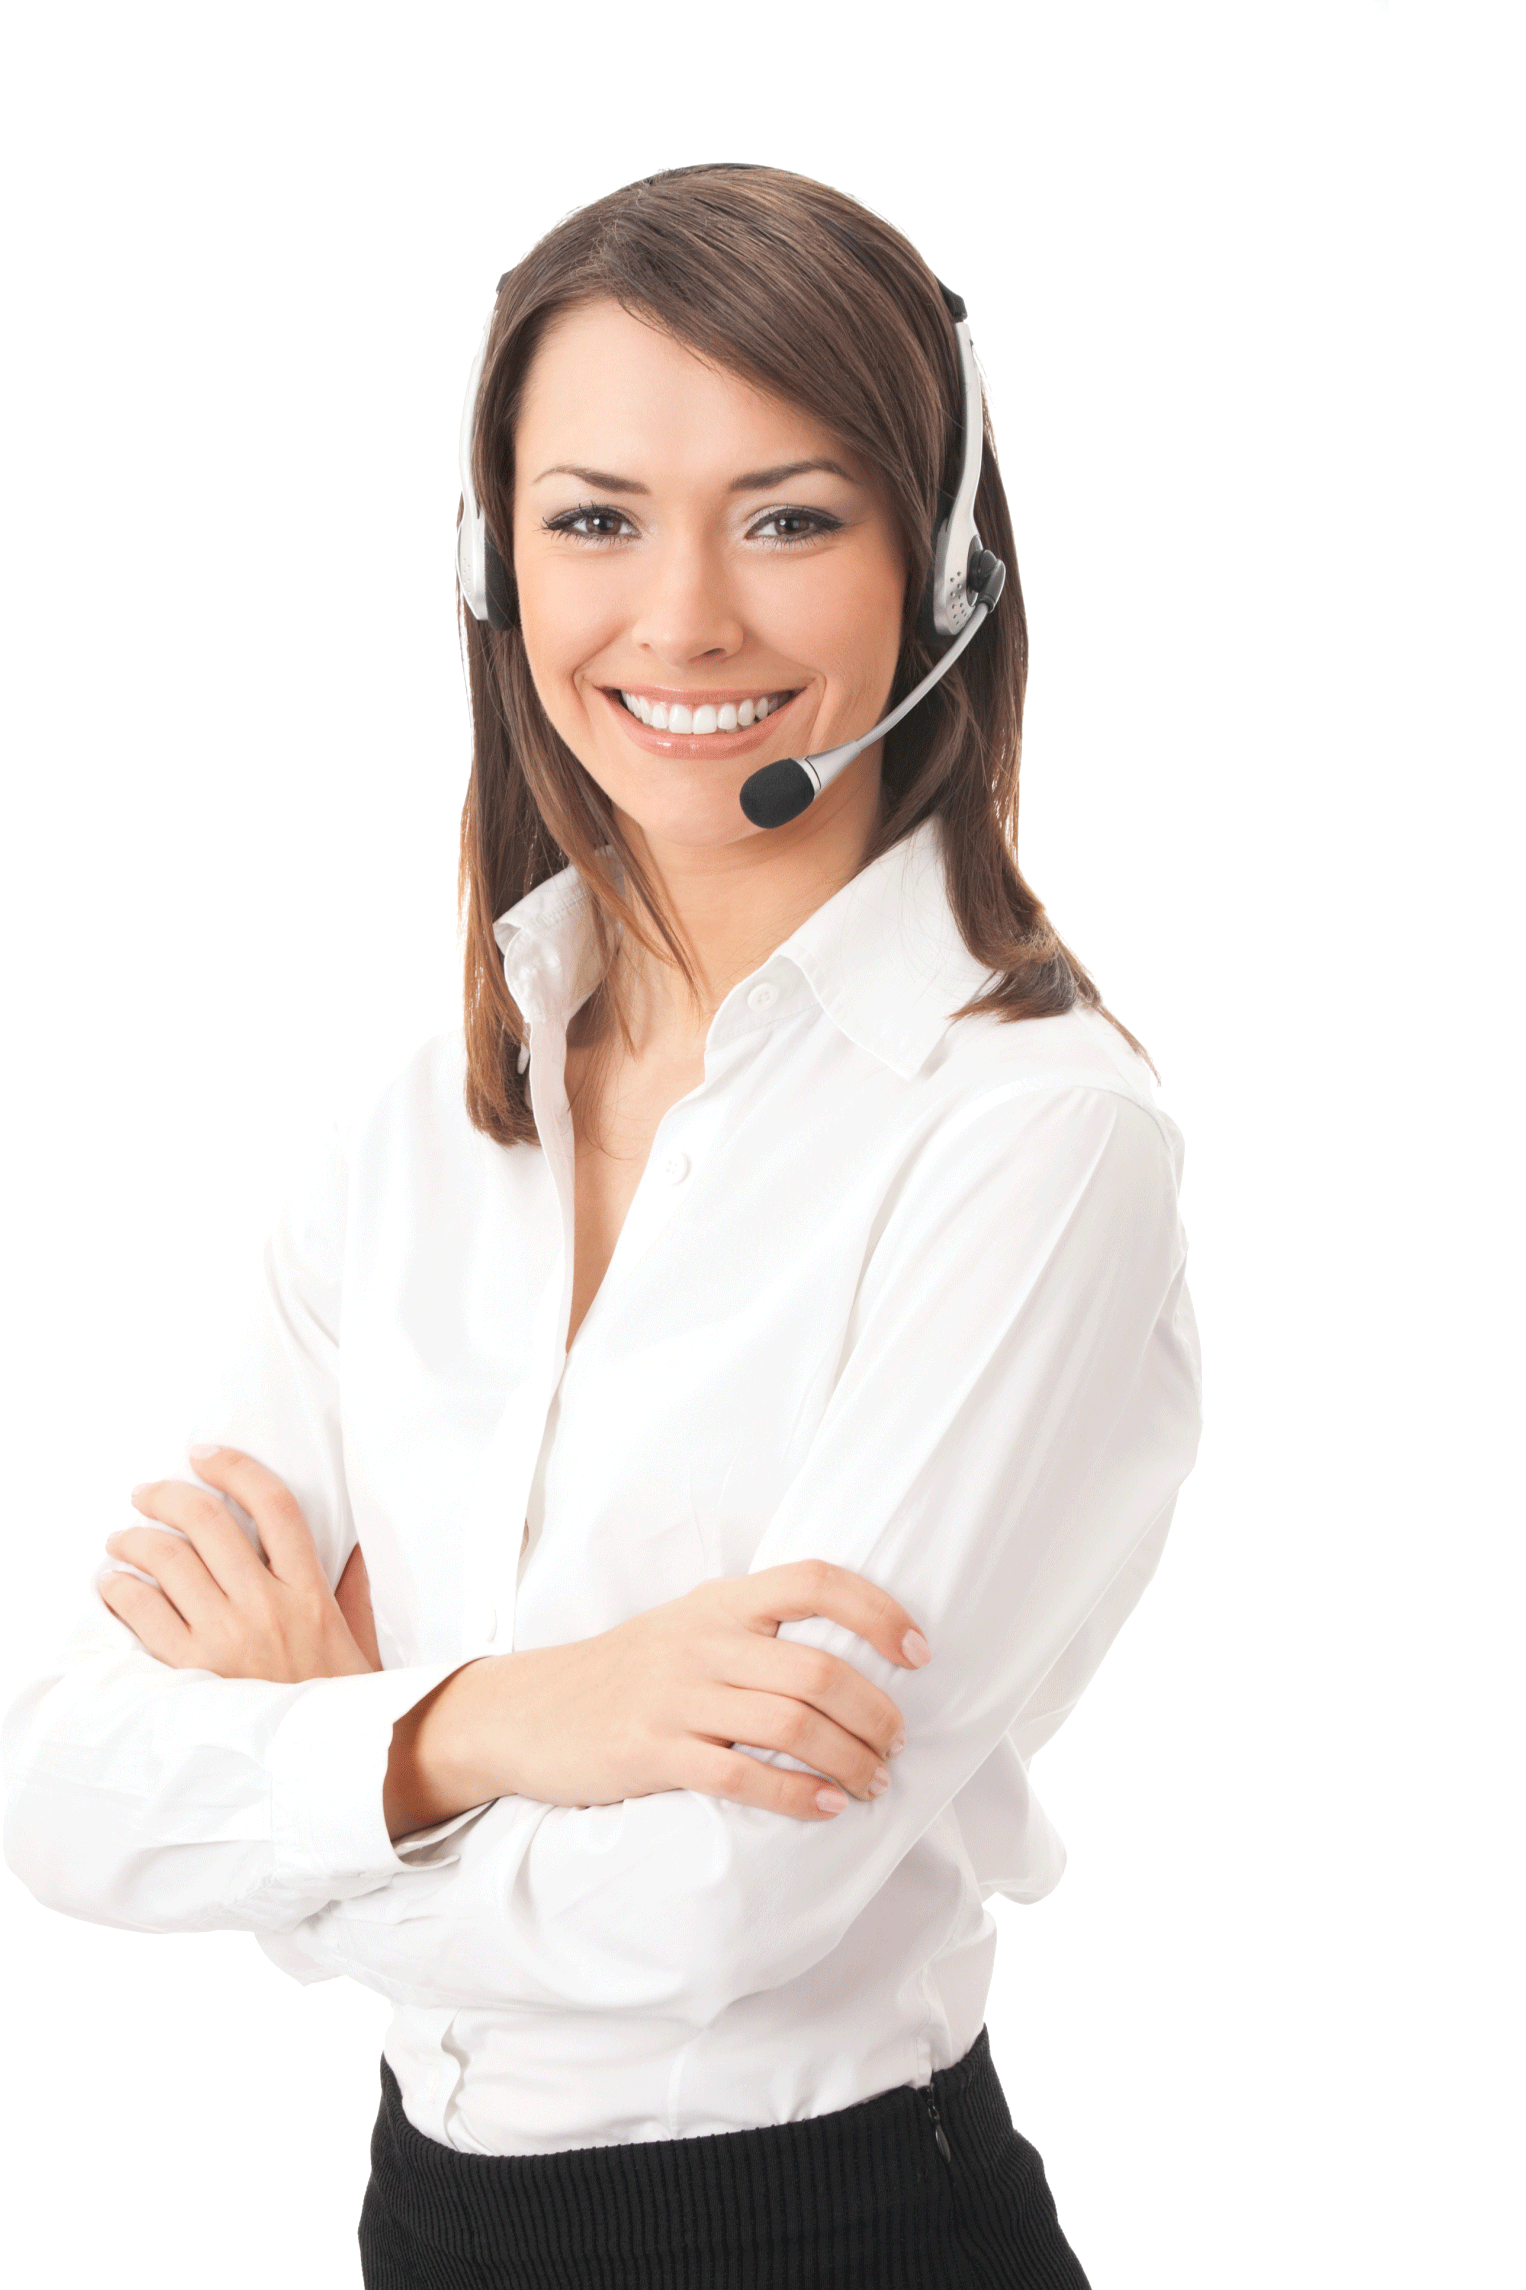
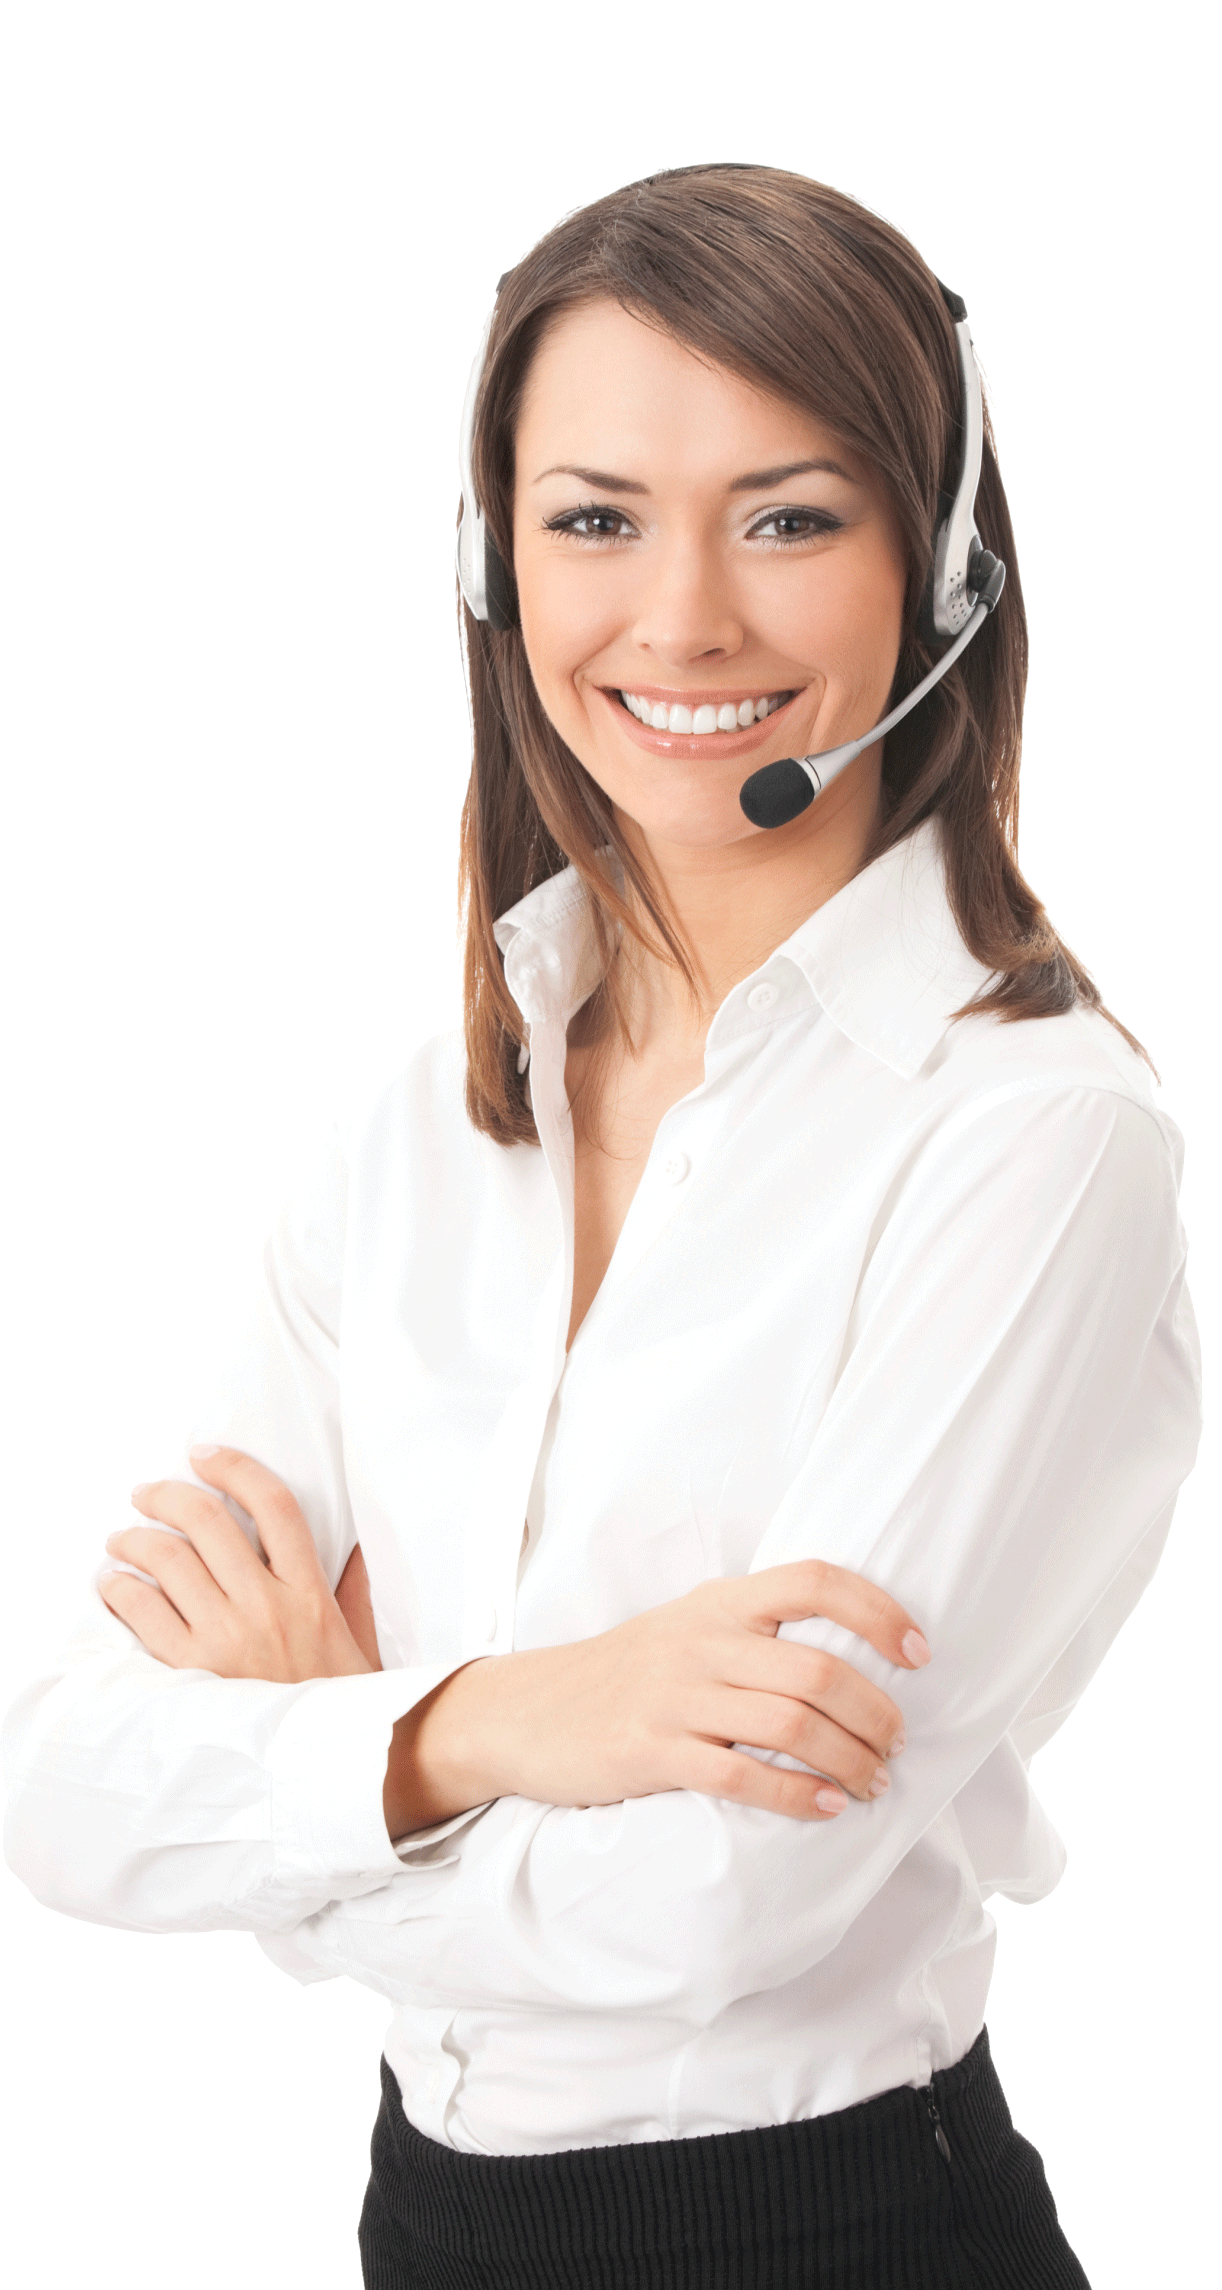
fixed image size

diff --git a/css/home.css b/css/home.css
@@ -841,10 +841,12 @@ footer .bottom .copy-right .send-btn {
   }
   main .top > .left .left-right {
     top: 10%;
-    right: -5%;
+    right: 0;
+    margin-right: 5px;
   }
   main .top > .left .left-left {
     left: 0;
+    margin-left: 5px;
   }
   main .middle .middle-top .middle-top-items .item {
     flex-direction: column;
@@ -854,4 +856,11 @@ footer .bottom .copy-right .send-btn {
     text-align: center;
     width: 30%;
   }
+  main .bottom .bottom-top .image-conteaier > img {
+    height: 100%;
+}
+main .bottom .bottom-top .form-container form input[type="text"] {
+ 
+  width: 100%;
+}
 }
